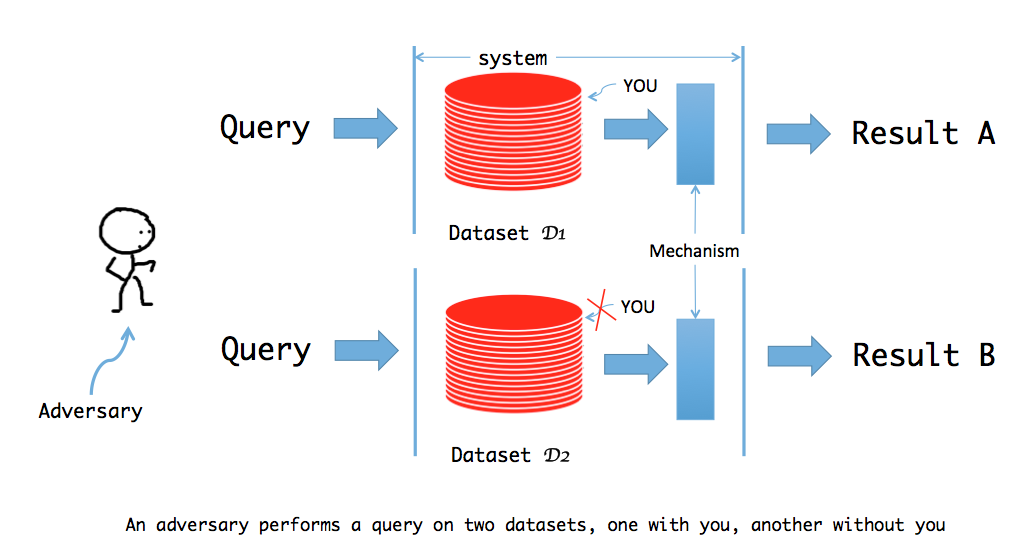
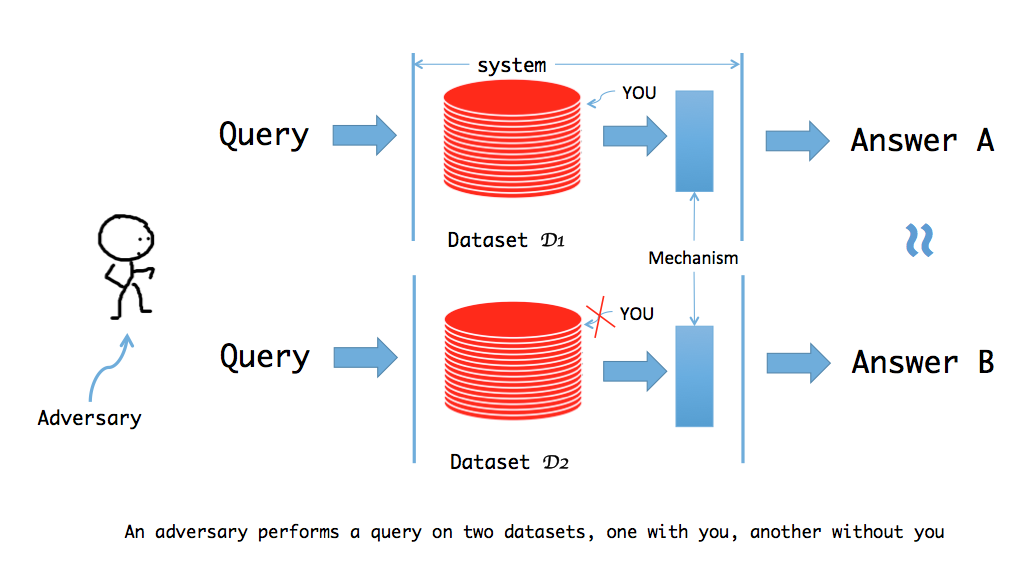
slight modification

diff --git a/index.html b/index.html
@@ -225,16 +225,16 @@
 
 					<!-- content -->
 					<div class="w3-container w3-large w3-center">
-						<p style="line-height: 40px;">
+						<p style="line-height: 40px; width: 70%; margin: auto;">
 							<span class="w3-xlarge">This</span> tutorial is based on the interactive statistical database scenario <br>
 							That means we assume query of a dataset is the only way that adversary can get information from the dataset <br>
 						</p>
 						<div class="w3-card-2" style="width: 50%; margin: auto;">
 							<img src="images/query.png" alt="no image" style="width: 100%">
 						</div>
-						<p style="line-height: 40px; width: 70%; margin: auto;">As is shown in the figure, the adversary can perform any queries on the dataset D
+						<p style="line-height: 40px; width: 70%; margin: auto;">As is shown in the figure, the adversary can perform any queries on the dataset D,
+							and the system will return an answer to the adversary.
 							(query: a function of the dataset, such as how many people are there in the dataset? What's the total age of the people within the dataset? ...)
-							, and the system will return an answer to the adversary.
 						</p>
 						<!-- second continue button -->
 						<button class="w3-btn w3-white w3-border w3-border-green w3-round-large"
@@ -242,8 +242,8 @@
 
 						<div class="w3-container next" id="ch1_01" style="line-height: 40px; width: 70%; margin: auto; display: none;">
 							<p>Although privacy-preserving data analysis has had a long history, there is no robust and mathematically rigorous definition of privacy.
-								Also, there's no a class of algorithms that satisfy this definition. Now, differential privacy came into being, filled this blank
-								and made a big progress in this field.
+								Also, there's no a class of algorithms that satisfy this definition. <br>
+								DIFFERENTIAL PRIVACY is such a definition. It filled this blank and made a big progress in this field.
 							</p>
 							<!-- second continue button -->
 							<button class="w3-btn w3-white w3-border w3-border-green w3-round-large"
@@ -253,14 +253,14 @@
 
 						<div class="w3-container" style="line-height: 40px; width: 70%; margin: auto;">
 							<div class="next" id="ch1_02" style="display: none">
-								<p class="w3-left-align next">Differential Privacy introduces a new idea about "privacy-preserving": when do you feel "safe" to participate in a survey?</p>
+								<p class="next">Differential Privacy introduces a new idea about "privacy-preserving": when do you feel "safe" to participate in a survey?</p>
 								<!-- second continue button -->
 								<button class="w3-btn w3-white w3-border w3-border-green w3-round-large"
 								onclick="next(this, 'next', [ch1_03])">continue</button>
 							</div>
 							<div class="next" id="ch1_03" style="display: none">
-								<p class="w3-left-align">&nbsp; &nbsp;- If no matter you participate in the survey or not, data analysis shows the same results,
-									then you might feel safe to take the survey.</p>
+								<p>&nbsp; &nbsp;- If no matter you participate in the survey or not, data analysis shows the same results,
+									then you might think you're safe and your privacy is preserved.</p>
 									<!-- second continue button -->
 									<button class="w3-btn w3-white w3-border w3-border-green w3-round-large"
 									onclick="next(this, 'next', [ch1_04])">continue</button>
@@ -277,12 +277,12 @@
 								<div class="w3-card-2">
 									<img src="images/dp.png" alt="no image" style="width: 100%">
 								</div>
-								<p>Intuitively, the promise says that if we do the same study (ie. the same query in the graph above)
-									on two datasets varying by only one single row (dataset with you and without you, we call such datasets neighboring datasets),
-									the result should be similar enough.
+								<p>Intuitively, the promise says that for the same study (ie. the same query in this figure)
+									on two datasets varying by only one single row (ie. dataset with you and without you, we call such datasets neighboring datasets),
+									the answer (A and B) should be similar enough.
 								</p>
 								<p>This is the definition of differential privacy!</p>
-								<p>Any mechanism that can mask such difference caused by removing one single row in the dataset (ie. make the two result A and B similar),
+								<p>Any mechanism (usually means randomized function) that can mask such difference caused by removing one single row in the dataset (ie. make the two answer A and B similar ENOUGH),
 									we say this mechanism satisfy this definition.
 								</p>
 								<button class="w3-btn w3-white w3-border w3-border-green w3-round-large"
@@ -293,10 +293,10 @@
 						</div>
 
 						<div class="next" id="ch1_06" style="display:none">
-							<p>If this is not clear to you. DON'T WORRY! Let's see an example!</p>
+							<p>If you don't feel comfortable. DON'T WORRY! Let's see an example!</p>
 							<div class="w3-container w3-center">
 								<button class="w3-btn w3-white w3-border w3-border-green w3-round-large btn_next"
-									onclick="complete(this)" >Next</button>
+									onclick="complete(this)" >Next Part</button>
 							</div>
 						</div>
 
